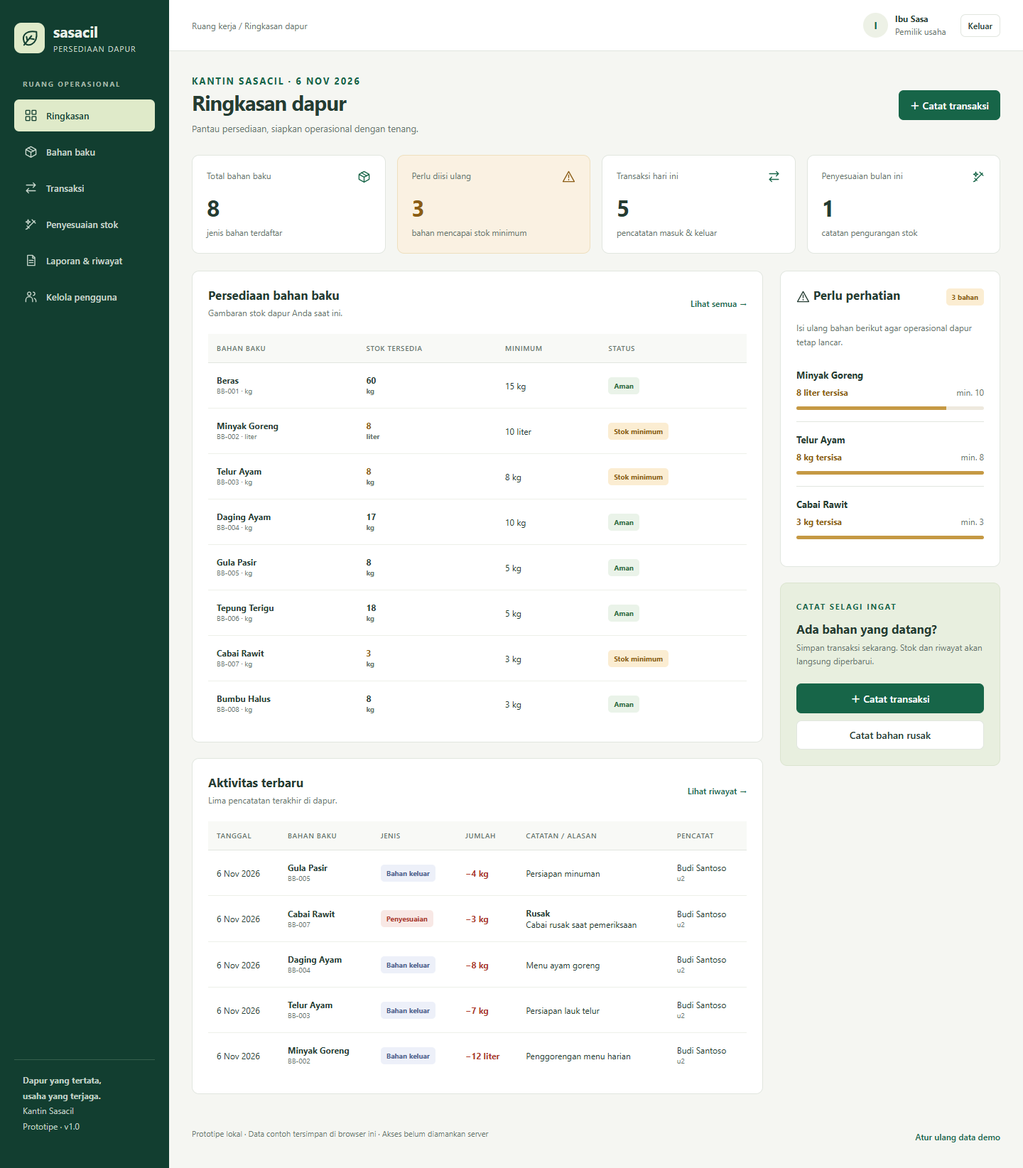
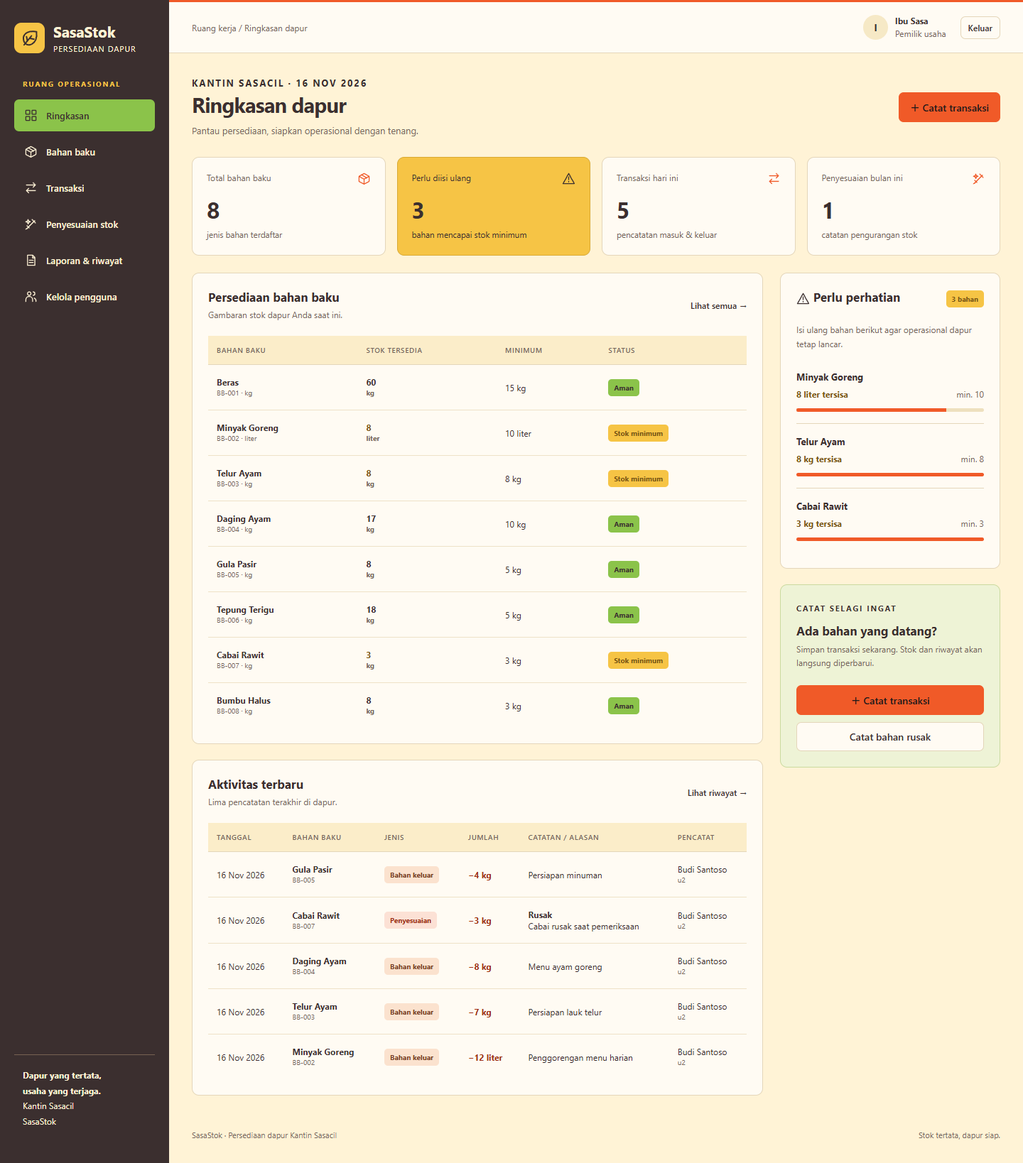
Renew the web UI

diff --git a/style.css b/style.css
@@ -1,6 +1,11 @@
-:root{--green:#176548;--deep:#123e30;--paper:#f5f6f2;--ink:#253c32;--muted:#68766e;--line:#e1e6df;--white:#fff;--red:#ac382c;--amber:#8b5c15;font-family: 'Segoe UI',Arial,sans-serif;color:var(--ink);background:var(--paper);font-size:14px;color-scheme:light}*{box-sizing:border-box}body{margin:0}button,input,select,textarea{font:inherit}button,a,input,select,textarea{outline-offset:4px}button{cursor:pointer;border:1px solid var(--line);border-radius:7px;background:white;color:var(--ink);padding:10px 15px;font-weight:600}button:hover{background:#eef3ed}button:disabled{opacity:.55;cursor:not-allowed}.primary{background:var(--green);color:white;border-color:var(--green)}.primary:hover{background:var(--deep)}.danger{color:var(--red)}a{color:var(--green)}h1,h2,h3,p{margin-top:0}h1{font-size:29px;letter-spacing:-.8px;margin-bottom:8px}h2{font-size:17px;margin-bottom:6px}h3{font-size:15px}p{line-height:1.6}.muted,small{color:var(--muted)}small{line-height:1.5}.eyebrow{font-size:11px;letter-spacing:1.8px;font-weight:700;text-transform:uppercase;color:var(--green)}.brand{display:flex;align-items:center;gap:12px;font-size:21px;font-weight:700}.brand small{display:block;font-size:11px;letter-spacing:1px;font-weight:400;margin-top:3px}.logo{background:#dfeac9;color:var(--deep);border-radius:10px;width:43px;height:43px;display:grid;place-items:center}.logo svg{width:28px;height:28px}svg{width:19px;height:19px;fill:none;stroke:currentColor;stroke-width:1.7;stroke-linecap:round;stroke-linejoin:round;vertical-align:middle}.shell{display:grid;grid-template-columns:238px minmax(0,1fr);min-height:100vh}.sidebar{background:var(--deep);color:#e8f0e9;padding:30px 20px;display:flex;flex-direction:column;gap:32px}.sidebar small{color:#c0d1c5}.sidebar .eyebrow{color:#a4b8a9;margin:0 12px 14px;font-size:10px}.sidebar nav{display:grid;gap:6px}.sidebar nav button{display:flex;align-items:center;gap:12px;width:100%;background:transparent;border:0;color:#cad8ce;text-align:left;padding:13px 14px;font-size:13px}.sidebar nav button:hover{background:#204f3e}.sidebar nav button.active{background:#dfeac9;color:var(--deep)}.side-bottom{margin-top:auto;padding:18px 12px;border-top:1px solid #37604d;font-size:12px;line-height:1.8;color:#c0d1c5}.main-wrap{min-width:0}.topbar{display:flex;justify-content:space-between;align-items:center;border-bottom:1px solid var(--line);padding:18px 32px;background:white;gap:12px}.topbar small{font-size:12px}.user{display:flex;align-items:center;gap:10px}.avatar{width:35px;height:35px;border-radius:50%;display:grid;place-items:center;background:#edf1e6;color:var(--green);font-weight:700}.user strong{display:block;font-size:12px}.user button{font-size:12px;padding:7px 10px;margin-left:10px}main{padding:32px;max-width:1550px;margin:auto}.page-head{display:flex;justify-content:space-between;align-items:center;gap:20px;margin-bottom:26px}.page-head p{margin-bottom:0;font-size:13px}.stats{display:grid;grid-template-columns:repeat(4,minmax(0,1fr));gap:16px;margin-bottom:24px}.stat,.panel{border:1px solid var(--line);border-radius:10px;background:white}.stat{padding:20px}.stat-top{display:flex;justify-content:space-between;gap:10px;color:var(--muted);font-size:12px}.stat-top svg{color:var(--green)}.stat strong{font-size:32px;display:block;margin:12px 0 4px;font-weight:650}.stat.alert{background:#faf1e2;border-color:#eedfbe}.stat.alert strong,.stat.alert svg{color:var(--amber)}.grid{display:grid;grid-template-columns:minmax(0,1fr) 310px;gap:24px;align-items:start}.panel{padding:22px;min-width:0;margin-bottom:22px}.panel-head{display:flex;justify-content:space-between;align-items:center;gap:12px;margin-bottom:20px}.panel-head p{margin-bottom:0;font-size:12px}.panel-head h2{margin-bottom:5px}.text-button{border:0;padding:4px 0;background:transparent;color:var(--green);font-size:12px}.table-wrap{overflow-x:auto}table{width:100%;border-collapse:collapse;white-space:nowrap;text-align:left;font-size:12px}th{color:var(--muted);font-size:10px;text-transform:uppercase;letter-spacing:.6px;font-weight:600;padding:13px 12px;border-bottom:1px solid var(--line);background:#f8f9f6}td{padding:16px 12px;border-bottom:1px solid #edf0e9}tr:last-child td{border-bottom:0}td strong{font-size:12px}td small{display:block;font-size:10px}td.notes{white-space:normal;min-width:150px;max-width:250px}.badge{display:inline-block;border-radius:5px;padding:5px 8px;font-size:10px;font-weight:650;background:#eaf3e9;color:#2c6c40}.badge.warn{background:#fbedd2;color:var(--amber)}.badge.out{background:#edf0f9;color:#4c608e}.badge.adjustment{background:#f8e8e5;color:var(--red)}.badge.off{background:#eee;color:#666}.stock-value{font-weight:700}.stock-value.low{color:var(--amber)}.warn-item{padding:16px 0;border-bottom:1px solid var(--line)}.warn-item:last-child{border:0}.warn-item strong{display:block;font-size:13px;margin-bottom:7px}.warn-item .row{margin-top:8px;font-size:12px}.track{height:5px;background:#eee9de;border-radius:8px;margin-top:12px;overflow:hidden}.track span{display:block;height:100%;background:#c59944}.row{display:flex;justify-content:space-between;align-items:center;gap:12px}.quick{background:#e8efdf;border-color:#dbe4cf}.quick p{font-size:12px}.quick button{width:100%;margin-top:10px}.notice{padding:14px 16px;border-radius:7px;background:#eef2e8;color:#506448;font-size:12px;line-height:1.7;margin-bottom:22px}.error{color:var(--red);font-size:13px;line-height:1.6}.filters{display:flex;flex-wrap:wrap;align-items:end;gap:12px;margin-bottom:22px}.filters label{min-width:150px;flex:1}.filters label.search{flex:2}.filters input,.filters select{margin:0}.form-grid{display:grid;grid-template-columns:1fr 1fr;gap:16px}.span2{grid-column:1/-1}label{display:block;color:var(--ink);font-size:12px;font-weight:600}input,select,textarea{display:block;width:100%;border:1px solid #ccd5cb;border-radius:6px;padding:11px 12px;background:white;color:var(--ink);margin-top:7px;min-width:0}input:disabled,select:disabled{background:#f0f2ed;color:var(--muted)}textarea{resize:vertical;min-height:85px}label small{display:block;font-weight:400;margin-top:6px}.actions{display:flex;justify-content:flex-end;gap:10px;margin-top:22px}.actions-cell button{border:0;background:transparent;padding:4px 7px;font-size:11px}.empty{text-align:center;color:var(--muted);padding:35px}.footer{font-size:11px;display:flex;justify-content:space-between;gap:16px;margin-top:26px;color:var(--muted)}dialog{border:1px solid var(--line);border-radius:12px;max-width:540px;width:calc(100% - 32px);padding:26px;color:var(--ink);max-height:90vh;overflow:auto}dialog::backdrop{background:#122c2477;backdrop-filter:blur(2px)}dialog .panel-head{margin-bottom:22px}dialog .close{border:0;padding:5px 10px;font-size:20px}#toast{position:fixed;bottom:25px;right:25px;max-width:min(420px,calc(100% - 40px));z-index:10;background:var(--deep);color:white;padding:14px 20px;border-radius:8px;box-shadow:0 5px 24px #10261922;display:none}#toast.show{display:block}#toast.error{background:#963b2e;color:white}.login{min-height:100vh;display:grid;grid-template-columns:1fr 1fr}.login-story{background:var(--deep);color:#f1f4e9;padding:50px 12%;display:flex;flex-direction:column;justify-content:space-between;min-height:600px}.login-story h1{font-size:46px;line-height:1.2;max-width:440px}.login-story p{color:#b9cbbb;max-width:370px}.login-story .eyebrow{color:#c8daa8;margin-bottom:20px}.login-form{display:grid;place-items:center;padding:35px}.login-card{max-width:370px;width:100%}.login-card h2{font-size:27px;margin-top:10px}.login-card form label{margin-top:18px}.login-card form button{width:100%;margin:22px 0 10px}.demo{border-top:1px solid var(--line);margin-top:24px;padding-top:20px;font-size:12px;line-height:1.8}.demo button{font-size:11px;padding:7px 11px;margin:8px 4px 0 0}.skip{position:fixed;top:-100px;left:10px;z-index:100;background:white;padding:12px}.skip:focus{top:10px}.boot{padding:40px}.amount{color:var(--green);font-weight:700}.amount.negative{color:var(--red)}
+:root{--yellow:#F6C445;--orange:#F05A28;--lime:#8BC34A;--cream:#FFF3D6;--chocolate:#3B2F2F;--primary:var(--chocolate);--deep:var(--chocolate);--paper:var(--cream);--ink:var(--chocolate);--muted:#75665A;--line:#E4D6BA;--surface:#FFFBF3;--red:#9E2E13;--amber:#795414;--on-orange:#211A1A;font-family: 'Segoe UI',Arial,sans-serif;color:var(--ink);background:var(--paper);font-size:14px;color-scheme:light}*{box-sizing:border-box}body{margin:0}button,input,select,textarea{font:inherit}button,a,input,select,textarea{outline-offset:4px}button{cursor:pointer;border:1px solid var(--line);border-radius:7px;background:var(--surface);color:var(--ink);padding:10px 15px;font-weight:600}button:hover{background:#FCEAC0}button:disabled{opacity:.55;cursor:not-allowed}.primary{background:var(--orange);color:var(--on-orange);border-color:var(--orange)}.primary:hover{background:var(--yellow);color:var(--chocolate);border-color:var(--yellow)}.danger{color:var(--red)}a{color:var(--primary)}h1,h2,h3,p{margin-top:0}h1{font-size:29px;letter-spacing:-.8px;margin-bottom:8px}h2{font-size:17px;margin-bottom:6px}h3{font-size:15px}p{line-height:1.6}.muted,small{color:var(--muted)}small{line-height:1.5}.eyebrow{font-size:11px;letter-spacing:1.8px;font-weight:700;text-transform:uppercase;color:var(--primary)}.brand{display:flex;align-items:center;gap:12px;font-size:21px;font-weight:700}.brand small{display:block;font-size:11px;letter-spacing:1px;font-weight:400;margin-top:3px}.logo{background:var(--yellow);color:var(--deep);border-radius:10px;width:43px;height:43px;display:grid;place-items:center}.logo svg{width:28px;height:28px}svg{width:19px;height:19px;fill:none;stroke:currentColor;stroke-width:1.7;stroke-linecap:round;stroke-linejoin:round;vertical-align:middle}.shell{display:grid;grid-template-columns:238px minmax(0,1fr);min-height:100vh}.sidebar{background:var(--deep);color:var(--cream);padding:30px 20px;display:flex;flex-direction:column;gap:32px}.sidebar small{color:var(--cream)}.sidebar .eyebrow{color:var(--yellow);margin:0 12px 14px;font-size:10px}.sidebar nav{display:grid;gap:6px}.sidebar nav button{display:flex;align-items:center;gap:12px;width:100%;background:transparent;border:0;color:var(--cream);text-align:left;padding:13px 14px;font-size:13px}.sidebar nav button:hover{background:#5B4540}.sidebar nav button.active{background:var(--lime);color:var(--deep)}.side-bottom{margin-top:auto;padding:18px 12px;border-top:1px solid #776252;font-size:12px;line-height:1.8;color:var(--cream)}.main-wrap{min-width:0}.topbar{border-top:3px solid var(--orange);display:flex;justify-content:space-between;align-items:center;border-bottom:1px solid var(--line);padding:18px 32px;background:var(--surface);gap:12px}.topbar small{font-size:12px}.user{display:flex;align-items:center;gap:10px}.avatar{width:35px;height:35px;border-radius:50%;display:grid;place-items:center;background:#F6E9C6;color:var(--primary);font-weight:700}.user strong{display:block;font-size:12px}.user button{font-size:12px;padding:7px 10px;margin-left:10px}main{padding:32px;max-width:1550px;margin:auto}.page-head{display:flex;justify-content:space-between;align-items:center;gap:20px;margin-bottom:26px}.page-head p{margin-bottom:0;font-size:13px}.stats{display:grid;grid-template-columns:repeat(4,minmax(0,1fr));gap:16px;margin-bottom:24px}.stat,.panel{border:1px solid var(--line);border-radius:10px;background:var(--surface)}.stat{padding:20px}.stat-top{display:flex;justify-content:space-between;gap:10px;color:var(--muted);font-size:12px}.stat-top svg{color:var(--orange)}.stat strong{font-size:32px;display:block;margin:12px 0 4px;font-weight:650}.stat.alert{background:var(--yellow);border-color:#D9A934}.stat.alert strong,.stat.alert svg{color:var(--chocolate)}.grid{display:grid;grid-template-columns:minmax(0,1fr) 310px;gap:24px;align-items:start}.panel{padding:22px;min-width:0;margin-bottom:22px}.panel-head{display:flex;justify-content:space-between;align-items:center;gap:12px;margin-bottom:20px}.panel-head p{margin-bottom:0;font-size:12px}.panel-head h2{margin-bottom:5px}.text-button{border:0;padding:4px 0;background:transparent;color:var(--primary);font-size:12px}.table-wrap{overflow-x:auto}table{width:100%;border-collapse:collapse;white-space:nowrap;text-align:left;font-size:12px}th{color:var(--muted);font-size:10px;text-transform:uppercase;letter-spacing:.6px;font-weight:600;padding:13px 12px;border-bottom:1px solid var(--line);background:#FBEDC9}td{padding:16px 12px;border-bottom:1px solid #EEE2C7}tr:last-child td{border-bottom:0}td strong{font-size:12px}td small{display:block;font-size:10px}td.notes{white-space:normal;min-width:150px;max-width:250px}.badge{display:inline-block;border-radius:5px;padding:5px 8px;font-size:10px;font-weight:650;background:var(--lime);color:var(--chocolate)}.badge.warn{background:var(--yellow);color:var(--amber)}.badge.out{background:#FBE2CE;color:#793D21}.badge.adjustment{background:#FCE1D5;color:var(--red)}.badge.off{background:#EDE4D6;color:#67584E}.stock-value{font-weight:700}.stock-value.low{color:var(--amber)}.warn-item{padding:16px 0;border-bottom:1px solid var(--line)}.warn-item:last-child{border:0}.warn-item strong{display:block;font-size:13px;margin-bottom:7px}.warn-item .row{margin-top:8px;font-size:12px}.track{height:5px;background:#EEE0BE;border-radius:8px;margin-top:12px;overflow:hidden}.track span{display:block;height:100%;background:var(--orange)}.row{display:flex;justify-content:space-between;align-items:center;gap:12px}.quick{background:#EEF3D6;border-color:#CADA9F}.quick p{font-size:12px}.quick button{width:100%;margin-top:10px}.notice{padding:14px 16px;border-radius:7px;background:#FAE9C5;color:var(--chocolate);font-size:12px;line-height:1.7;margin-bottom:22px}.error{color:var(--red);font-size:13px;line-height:1.6}.filters{display:flex;flex-wrap:wrap;align-items:end;gap:12px;margin-bottom:22px}.filters label{min-width:150px;flex:1}.filters label.search{flex:2}.filters input,.filters select{margin:0}.form-grid{display:grid;grid-template-columns:1fr 1fr;gap:16px}.span2{grid-column:1/-1}label{display:block;color:var(--ink);font-size:12px;font-weight:600}input,select,textarea{display:block;width:100%;border:1px solid #CBBA9F;border-radius:6px;padding:11px 12px;background:var(--surface);color:var(--ink);margin-top:7px;min-width:0}input:disabled,select:disabled{background:#EFE4D0;color:var(--muted)}textarea{resize:vertical;min-height:85px}label small{display:block;font-weight:400;margin-top:6px}.actions{display:flex;justify-content:flex-end;gap:10px;margin-top:22px}.actions-cell button{border:0;background:transparent;padding:4px 7px;font-size:11px}.empty{text-align:center;color:var(--muted);padding:35px}.footer{font-size:11px;display:flex;justify-content:space-between;gap:16px;margin-top:26px;color:var(--muted)}dialog{border:1px solid var(--line);border-radius:12px;max-width:540px;width:calc(100% - 32px);padding:26px;color:var(--ink);max-height:90vh;overflow:auto}dialog::backdrop{background:#3B2F2F88;backdrop-filter:blur(2px)}dialog .panel-head{margin-bottom:22px}dialog .close{border:0;padding:5px 10px;font-size:20px}#toast{position:fixed;bottom:25px;right:25px;max-width:min(420px,calc(100% - 40px));z-index:10;background:var(--deep);color:var(--cream);padding:14px 20px;border-radius:8px;box-shadow:0 5px 24px #3B2F2F22;display:none}#toast.show{display:block}#toast.error{background:#8E2E16;color:var(--cream)}.login{min-height:100vh;display:grid;grid-template-columns:1fr 1fr}.login-story{border-top:8px solid var(--orange);background:var(--deep);color:var(--cream);padding:50px 12%;display:flex;flex-direction:column;justify-content:space-between;min-height:600px}.login-story h1{font-size:46px;line-height:1.2;max-width:440px}.login-story p{color:var(--cream);max-width:370px}.login-story .eyebrow{color:var(--yellow);margin-bottom:20px}.login-form{display:grid;place-items:center;padding:35px}.login-card{max-width:370px;width:100%}.login-card h2{font-size:27px;margin-top:10px}.login-card form label{margin-top:18px}.login-card form button{width:100%;margin:22px 0 10px}.login-help{border-top:1px solid var(--line);margin-top:24px;padding-top:20px;color:var(--muted);font-size:12px;line-height:1.8}.skip{position:fixed;top:-100px;left:10px;z-index:100;background:var(--surface);padding:12px}.skip:focus{top:10px}.boot{padding:40px}.amount{color:var(--primary);font-weight:700}.amount.negative{color:var(--red)}
 @media(min-width:1500px){main{padding:40px}.grid{grid-template-columns:minmax(0,1fr) 330px}}
 @media(max-width:1150px){.shell{grid-template-columns:210px minmax(0,1fr)}.sidebar{padding:25px 13px}.grid{grid-template-columns:minmax(0,1fr)}.aside{display:grid;grid-template-columns:1fr 1fr;gap:20px}.stats{gap:10px}.stat{padding:16px}.topbar,main{padding:24px}.stat-top{font-size:11px}}
 @media(max-width:760px){.shell{display:block}.sidebar{padding:18px 16px;gap:20px}.sidebar nav{display:flex;overflow-x:auto;gap:5px}.sidebar nav button{width:auto;white-space:nowrap;padding:11px;font-size:12px}.sidebar nav button svg{display:none}.sidebar .eyebrow,.side-bottom{display:none}.sidebar .brand{font-size:18px}.topbar{padding:14px 18px}.topbar>small{display:none}.user{width:100%}.user button{margin-left:auto}main{padding:24px 16px}.page-head{align-items:flex-start;flex-direction:column;gap:14px}h1{font-size:26px}.stats{grid-template-columns:repeat(2,minmax(0,1fr));gap:10px}.stat strong{font-size:28px}.stat small{font-size:10px}.aside{display:block}.panel{padding:17px}.footer{flex-direction:column}.login{display:block}.login-story{min-height:0;padding:25px}.login-story>div:not(.brand),.login-story>small{display:none}.login-form{padding:32px 24px}.form-grid{grid-template-columns:1fr}.span2{grid-column:auto}.filters{align-items:stretch}.filters label{min-width:120px}input,select,textarea{font-size:16px}.panel-head{align-items:flex-start}.panel-head button{white-space:nowrap}.notice{font-size:11px}}
 @media(prefers-reduced-motion:reduce){*{scroll-behavior:auto!important}}
 @media print{.sidebar,.topbar,.filters,.page-head button,.footer button,.quick,#toast{display:none}.shell{display:block}main{padding:0}.panel{border:0;padding:0}.table-wrap{overflow:visible}table{white-space:normal}}
+
+:focus-visible{outline:3px solid var(--orange);outline-offset:3px}.primary:focus-visible{outline-color:var(--chocolate)}
+
+.stat.alert .stat-top,.stat.alert small{color:var(--chocolate)}
+.login-story small{color:var(--cream)}

diff --git a/app.js b/app.js
@@ -2,7 +2,7 @@
 (async () => {
   'use strict';
   const M=Sasacil, KEY='sasacil-prototype-v1', app=document.querySelector('#app'), dialog=document.querySelector('#dialog');
-  let state,uid=null,page='dashboard',filters={},notice='',timer;
+  let state,uid=null,page='dashboard',filters={},timer;
   const icons={leaf:'<path d="M20 4C8 2 2 8 5 16s17 4 15-12Z"/><path d="m5 20 9-11M9 15l-1-5m4 2 5 1"/>',dashboard:'<rect x="3" y="3" width="7" height="7" rx="1"/><rect x="14" y="3" width="7" height="7" rx="1"/><rect x="3" y="14" width="7" height="7" rx="1"/><rect x="14" y="14" width="7" height="7" rx="1"/>',materials:'<path d="m12 3 9 5v9l-9 5-9-5V8l9-5Zm-9 5 9 5 9-5M12 13v9M7 5l10 6"/>',transactions:'<path d="M4 7h16m-4-4 4 4-4 4M20 17H4m4-4-4 4 4 4"/>',adjustment:'<path d="m5 20 14-14M14 4l6 6M5 15l4 4M3 21l3-1M7 4l1 3 3 1-3 1-1 3-1-3-3-1 3-1 1-3Z"/>',reports:'<path d="M6 3h9l4 4v14H6V3Zm9 0v5h4M9 12h7M9 16h7"/>',users:'<circle cx="9" cy="7" r="3"/><path d="M3 21v-3a6 6 0 0 1 12 0v3M16 4a3 3 0 0 1 0 6m2 5a5 5 0 0 1 3 4v2"/>',warn:'<path d="m12 3 10 18H2L12 3Zm0 6v5m0 3v1"/>',arrow:'<path d="M12 3v18m-6-6 6 6 6-6"/>'};
   const icon=k=>`<svg viewBox="0 0 24 24" aria-hidden="true">${icons[k]||icons.leaf}</svg>`;
   const esc=v=>String(v??'').replace(/[&<>"']/g,c=>({'&':'&amp;','<':'&lt;','>':'&gt;','"':'&quot;',"'":'&#39;'}[c]));
@@ -23,9 +23,9 @@
     if(read()?.revision!==state.revision) throw new Error('Data berubah di tab lain. Muat ulang sebelum menyimpan.');
     draft.revision++;localStorage.setItem(KEY,JSON.stringify(draft));state=draft;
   }
-  const brand=()=>`<div class="brand"><span class="logo">${icon('leaf')}</span><div>sasacil<small>PERSEDIAAN DAPUR</small></div></div>`;
+  const brand=()=>`<div class="brand"><span class="logo">${icon('leaf')}</span><div>SasaStok<small>PERSEDIAAN DAPUR</small></div></div>`;
   function loginScreen(){
-    app.innerHTML=`<div class="login"><section class="login-story">${brand()}<div><p class="eyebrow">Dari dapur, untuk kelancaran usaha.</p><h1>Stok tertata.<br>Dapur siap cerita.</h1><p>Catat bahan yang datang, pantau yang terpakai, dan siapkan kebutuhan esok hari dalam satu tempat.</p></div><small>Kantin Sasacil · Prototipe manajemen bahan baku</small></section><main id="main" class="login-form"><div class="login-card"><span class="eyebrow">Selamat datang kembali</span><h2>Masuk ke dapur Anda</h2><p class="muted">Gunakan akun pemilik atau karyawan untuk melanjutkan.</p><form id="login-form"><label>Email<input name="email" type="email" autocomplete="username" placeholder="nama@sasacil.id" required></label><label>Kata sandi<input name="password" type="password" autocomplete="current-password" required></label><p id="login-error" class="error" role="alert"></p><button class="primary" type="submit">Masuk ke aplikasi →</button></form><div class="demo"><strong>Coba dengan akun demo</strong><br>Pemilik: pemilik@sasacil.id<br>Karyawan: karyawan@sasacil.id<br>Kata sandi keduanya: <b>sasacil123</b><br><button data-demo="pemilik">Isi akun pemilik</button><button data-demo="karyawan">Isi akun karyawan</button></div><p class="muted" style="font-size:11px;margin-top:20px">Prototipe lokal • Data disimpan di browser ini. Gunakan data contoh; login dan hak akses belum diamankan oleh server.</p>${notice?`<p class="error">${esc(notice)}</p>`:''}</div></main></div>`;
+    app.innerHTML=`<div class="login"><section class="login-story">${brand()}<div><p class="eyebrow">Persediaan dapur Kantin Sasacil</p><h1>Stok tertata.<br>Dapur siap.</h1><p>Kelola bahan baku, pantau persediaan, dan catat kebutuhan dapur dalam satu tempat.</p></div><small>SasaStok · Manajemen bahan baku</small></section><main id="main" class="login-form"><div class="login-card"><span class="eyebrow">Selamat datang kembali</span><h2>Masuk ke SasaStok</h2><p class="muted">Gunakan akun Anda untuk mengakses persediaan dapur.</p><form id="login-form"><label>Email<input name="email" type="email" autocomplete="username" placeholder="nama@sasacil.id" required></label><label>Kata sandi<input name="password" type="password" autocomplete="current-password" required></label><p id="login-error" class="error" role="alert"></p><button class="primary" type="submit">Masuk ke aplikasi →</button></form><p class="login-help">Belum memiliki akun atau mengalami kendala masuk? Hubungi pemilik atau pengelola Kantin Sasacil.</p></div></main></div>`;
   }
   function table(headers,rows,empty='Belum ada data untuk ditampilkan.') {return `<div class="table-wrap"><table><thead><tr>${headers.map(x=>`<th scope="col">${x}</th>`).join('')}</tr></thead><tbody>${rows.join('')||`<tr><td colspan="${headers.length}" class="empty">${empty}</td></tr>`}</tbody></table></div>`;}
   function stockTable(rows,edit=false){return table(['Bahan baku','Stok tersedia','Minimum','Status',...(edit?['Tindakan']:[])],rows.map(m=>`<tr><td><strong>${esc(m.name)}</strong><small>${esc(m.code)} · ${esc(m.unit)}</small></td><td class="stock-value ${M.balance(state,m.id)<=m.minimum?'low':''}">${num(M.balance(state,m.id))} <small>${esc(m.unit)}</small></td><td>${num(m.minimum)} ${esc(m.unit)}</td><td>${badge(m)}</td>${edit?`<td class="actions-cell"><button data-action="edit-material" data-id="${m.id}" aria-label="Ubah ${esc(m.name)}">Ubah</button><button class="danger" data-action="delete-material" data-id="${m.id}" aria-label="Hapus ${esc(m.name)}">Hapus</button></td>`:''}</tr>`));}
@@ -47,7 +47,7 @@
     if(page==='users'&&!owner())page='dashboard';
     const titles={dashboard:['Ringkasan dapur','Pantau persediaan, siapkan operasional dengan tenang.'],materials:['Bahan baku','Semua bahan dan batas stok minimum dalam satu daftar.'],transactions:['Transaksi bahan baku','Catat bahan masuk dan pemakaian dapur.'],adjustment:['Penyesuaian stok','Jaga catatan tetap sesuai kondisi bahan di dapur.'],reports:['Laporan & riwayat','Telusuri pergerakan bahan berdasarkan periode.'],users:['Kelola pengguna','Atur akun dan kewenangan tim Kantin Sasacil.']};
     const [title,sub]=titles[page];
-    app.innerHTML=`<div class="shell"><aside class="sidebar">${brand()}<div><p class="eyebrow">Ruang operasional</p><nav aria-label="Menu utama">${nav.filter(([k])=>k!=='users'||owner()).map(([k,label])=>`<button data-page="${k}" class="${k===page?'active':''}" ${k===page?'aria-current="page"':''}>${icon(k)}${label}</button>`).join('')}</nav></div><div class="side-bottom"><b>Dapur yang tertata,<br>usaha yang terjaga.</b><br>Kantin Sasacil<br>Prototipe · v1.0</div></aside><div class="main-wrap"><header class="topbar"><small>Ruang kerja <span class="muted">/ ${title}</span></small><div class="user"><span class="avatar">${esc(user().name[0])}</span><div><strong>${esc(user().name)}</strong><small>${role(user().role)}</small></div><button data-action="logout">Keluar</button></div></header><main id="main" tabindex="-1"><div class="page-head"><div><p class="eyebrow">KANTIN SASACIL · ${date(M.today())}</p><h1>${title}</h1><p class="muted">${sub}</p></div>${page==='dashboard'?'<button class="primary" data-page="transactions">＋ Catat transaksi</button>':page==='materials'&&owner()?'<button class="primary" data-action="add-material">＋ Tambah bahan</button>':page==='users'?'<button class="primary" data-action="add-user">＋ Tambah pengguna</button>':''}</div>${({dashboard,materials,transactions:()=>txForm(),adjustment:()=>txForm(true),reports:report,users}[page])()}<footer class="footer"><span>Prototipe lokal · Data contoh tersimpan di browser ini · Akses belum diamankan server</span>${owner()?'<button class="text-button" data-action="reset">Atur ulang data demo</button>':''}</footer></main></div></div>`;
+    app.innerHTML=`<div class="shell"><aside class="sidebar">${brand()}<div><p class="eyebrow">Ruang operasional</p><nav aria-label="Menu utama">${nav.filter(([k])=>k!=='users'||owner()).map(([k,label])=>`<button data-page="${k}" class="${k===page?'active':''}" ${k===page?'aria-current="page"':''}>${icon(k)}${label}</button>`).join('')}</nav></div><div class="side-bottom"><b>Dapur yang tertata,<br>usaha yang terjaga.</b><br>Kantin Sasacil<br>SasaStok</div></aside><div class="main-wrap"><header class="topbar"><small>Ruang kerja <span class="muted">/ ${title}</span></small><div class="user"><span class="avatar">${esc(user().name[0])}</span><div><strong>${esc(user().name)}</strong><small>${role(user().role)}</small></div><button data-action="logout">Keluar</button></div></header><main id="main" tabindex="-1"><div class="page-head"><div><p class="eyebrow">KANTIN SASACIL · ${date(M.today())}</p><h1>${title}</h1><p class="muted">${sub}</p></div>${page==='dashboard'?'<button class="primary" data-page="transactions">＋ Catat transaksi</button>':page==='materials'&&owner()?'<button class="primary" data-action="add-material">＋ Tambah bahan</button>':page==='users'?'<button class="primary" data-action="add-user">＋ Tambah pengguna</button>':''}</div>${({dashboard,materials,transactions:()=>txForm(),adjustment:()=>txForm(true),reports:report,users}[page])()}<footer class="footer"><span>SasaStok · Persediaan dapur Kantin Sasacil</span><span>Stok tertata, dapur siap.</span></footer></main></div></div>`;
   }
   function modal(title,body){dialog.innerHTML=`<div class="panel-head"><h2 id="dialog-title">${title}</h2><button class="close" data-action="close" aria-label="Tutup dialog">×</button></div>${body}`;dialog.showModal();}
   function materialModal(mid){M.actor(state,uid,true);const m=state.materials.find(m=>m.id===mid),locked=m&&state.transactions.some(t=>t.materialId===mid);modal(m?'Ubah bahan baku':'Tambah bahan baku',`<form id="material-form" class="form-grid"><input type="hidden" name="id" value="${m?.id||''}"><label>Kode bahan<input name="code" required maxlength="50" value="${esc(m?.code||'')}"></label><label>Satuan dasar<select name="unit" ${locked?'disabled':''}>${['kg','liter','pcs','gram'].map(u=>`<option ${u===m?.unit?'selected':''}>${u}</option>`).join('')}</select></label><label class="span2">Nama bahan<input name="name" required maxlength="255" value="${esc(m?.name||'')}"></label><label>Saldo awal<input name="initial" type="number" min="0" step="0.01" required value="${m?decimal(m.initial):'0'}" ${locked?'disabled':''}></label><label>Batas stok minimum<input name="minimum" type="number" min="0" step="0.01" required value="${m?decimal(m.minimum):'0'}"></label>${locked?'<small class="span2">Saldo awal dan satuan dikunci untuk menjaga konsistensi riwayat.</small>':''}<p class="error span2" role="alert"></p><div class="actions span2"><button type="button" data-action="close">Batal</button><button class="primary">Simpan bahan</button></div></form>`);}
@@ -57,7 +57,6 @@
   document.addEventListener('click',async e=>{
     const b=e.target.closest('button');if(!b)return;
     try{
-      if(b.dataset.demo){const f=document.querySelector('#login-form');f.email.value=b.dataset.demo+'@sasacil.id';f.password.value='sasacil123';return;}
       if(b.dataset.page){page=b.dataset.page;filters={};render();document.querySelector('#main').focus();return;}
       const a=b.dataset.action,mid=b.dataset.id;
       if(a==='close')dialog.close();
@@ -67,9 +66,8 @@
       if(a==='delete-material')confirmAction('Hapus bahan baku?','Bahan yang sudah memiliki transaksi tidak dapat dihapus.',()=>commit(s=>M.removeMaterial(s,uid,mid)));
       if(a==='delete-user')confirmAction('Hapus pengguna?','Akun yang memiliki riwayat transaksi harus dinonaktifkan melalui Ubah.',()=>commit(s=>M.removeUser(s,uid,mid)));
       if(a==='clear-filters'){filters={};render();}
-      if(a==='export-transactions'){const rows=M.filter(state,filters);download('sasacil-riwayat-'+M.today()+'.csv',[['Tanggal','Kode','Bahan','Satuan','Jenis','Jumlah','Alasan','Catatan','Pencatat','ID pengguna'],...rows.map(t=>{const m=state.materials.find(m=>m.id===t.materialId);return[t.date,m.code,m.name,m.unit,typeName(t.type),decimal(t.quantity),t.reason,t.notes,t.userName,t.userId];})]);}
-      if(a==='export-stock')download('sasacil-persediaan-'+M.today()+'.csv',[['Bahan','Satuan','Saldo awal periode','Masuk','Keluar','Penyesuaian','Saldo akhir periode'],...stockReport()]);
-      if(a==='reset'){M.actor(state,uid,true);confirmAction('Atur ulang data demo?','Semua data prototipe di browser ini akan diganti data contoh. Anda akan keluar dari aplikasi.',async()=>{await commit(async s=>{M.actor(s,uid,true);const next=await M.seed();Object.assign(s,{users:next.users,materials:next.materials,transactions:next.transactions});});uid=null;page='dashboard';filters={};});}
+      if(a==='export-transactions'){const rows=M.filter(state,filters);download('sasastok-riwayat-'+M.today()+'.csv',[['Tanggal','Kode','Bahan','Satuan','Jenis','Jumlah','Alasan','Catatan','Pencatat','ID pengguna'],...rows.map(t=>{const m=state.materials.find(m=>m.id===t.materialId);return[t.date,m.code,m.name,m.unit,typeName(t.type),decimal(t.quantity),t.reason,t.notes,t.userName,t.userId];})]);}
+      if(a==='export-stock')download('sasastok-persediaan-'+M.today()+'.csv',[['Bahan','Satuan','Saldo awal periode','Masuk','Keluar','Penyesuaian','Saldo akhir periode'],...stockReport()]);
     }catch(err){toast(err.message,true);}
   });
   document.addEventListener('submit',async e=>{
@@ -92,5 +90,5 @@
   });
   window.addEventListener('storage',e=>{if(e.key!==KEY)return;try{state=read();if(!state)throw new Error();uid=null;if(dialog.open)dialog.close();page='dashboard';filters={};render();toast('Data berubah di tab lain. Silakan masuk kembali.');}catch{location.reload();}});
   try{state=read();if(state&&state.version!==1)throw new Error('Versi data tersimpan tidak didukung.');if(!state){state=await M.seed();localStorage.setItem(KEY,JSON.stringify(state));}render();}
-  catch(err){app.innerHTML=`<main class="panel" style="margin:40px auto;max-width:600px"><h1>Aplikasi belum dapat dibuka</h1><p class="error">${esc(err.message)}</p><p>Pastikan JavaScript dan penyimpanan lokal browser diizinkan. Buka menggunakan Chrome atau Edge terbaru.</p><p>Jika browser membatasi file lokal, jalankan lewat server lokal sesuai PETUNJUK.md.</p></main>`;}
+  catch(err){app.innerHTML=`<main class="panel" style="margin:40px auto;max-width:600px"><h1>Aplikasi belum dapat dibuka</h1><p class="error">${esc(err.message)}</p><p>Pastikan JavaScript dan penyimpanan lokal browser diizinkan. Buka menggunakan Chrome atau Edge terbaru.</p><p>Jika browser membatasi file lokal, jalankan lewat server lokal sesuai README.md.</p></main>`;}
 })();

diff --git a/index.html b/index.html
@@ -1,5 +1,5 @@
 <!doctype html>
 <html lang="id">
-<head><meta charset="utf-8"><meta name="viewport" content="width=device-width,initial-scale=1"><title>Sasacil — Persediaan Dapur</title><link rel="stylesheet" href="style.css"><script src="model.js" defer></script><script src="app.js" defer></script></head>
-<body><a class="skip" href="#main">Langsung ke konten</a><div id="app"><p class="boot">Menyiapkan dapur Sasacil…</p></div><dialog id="dialog" aria-labelledby="dialog-title"></dialog><div id="toast" role="status" aria-live="polite"></div></body>
+<head><meta charset="utf-8"><meta name="viewport" content="width=device-width,initial-scale=1"><title>SasaStok — Persediaan Bahan Baku Kantin Sasacil</title><link rel="stylesheet" href="style.css"><script src="model.js" defer></script><script src="app.js" defer></script></head>
+<body><a class="skip" href="#main">Langsung ke konten</a><div id="app"><p class="boot">Menyiapkan SasaStok…</p></div><dialog id="dialog" aria-labelledby="dialog-title"></dialog><div id="toast" role="status" aria-live="polite"></div></body>
 </html>
